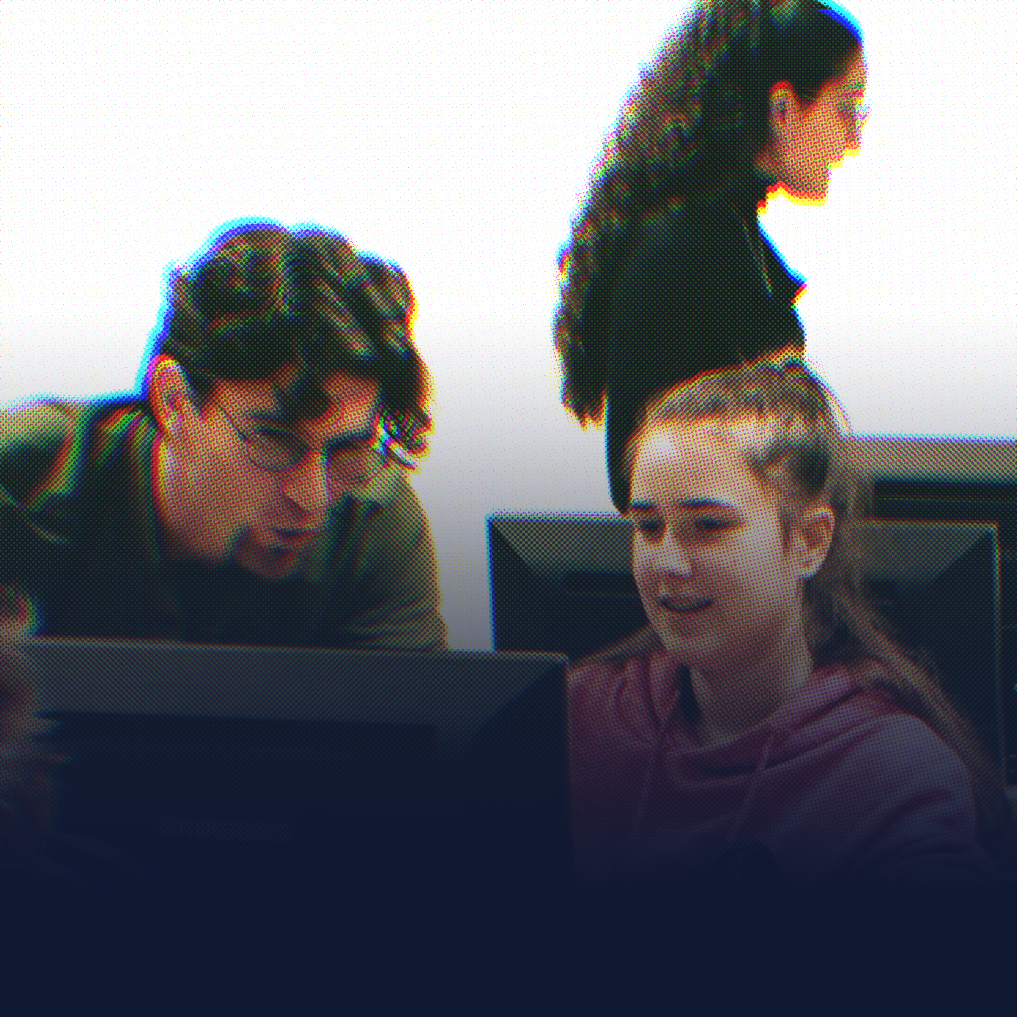
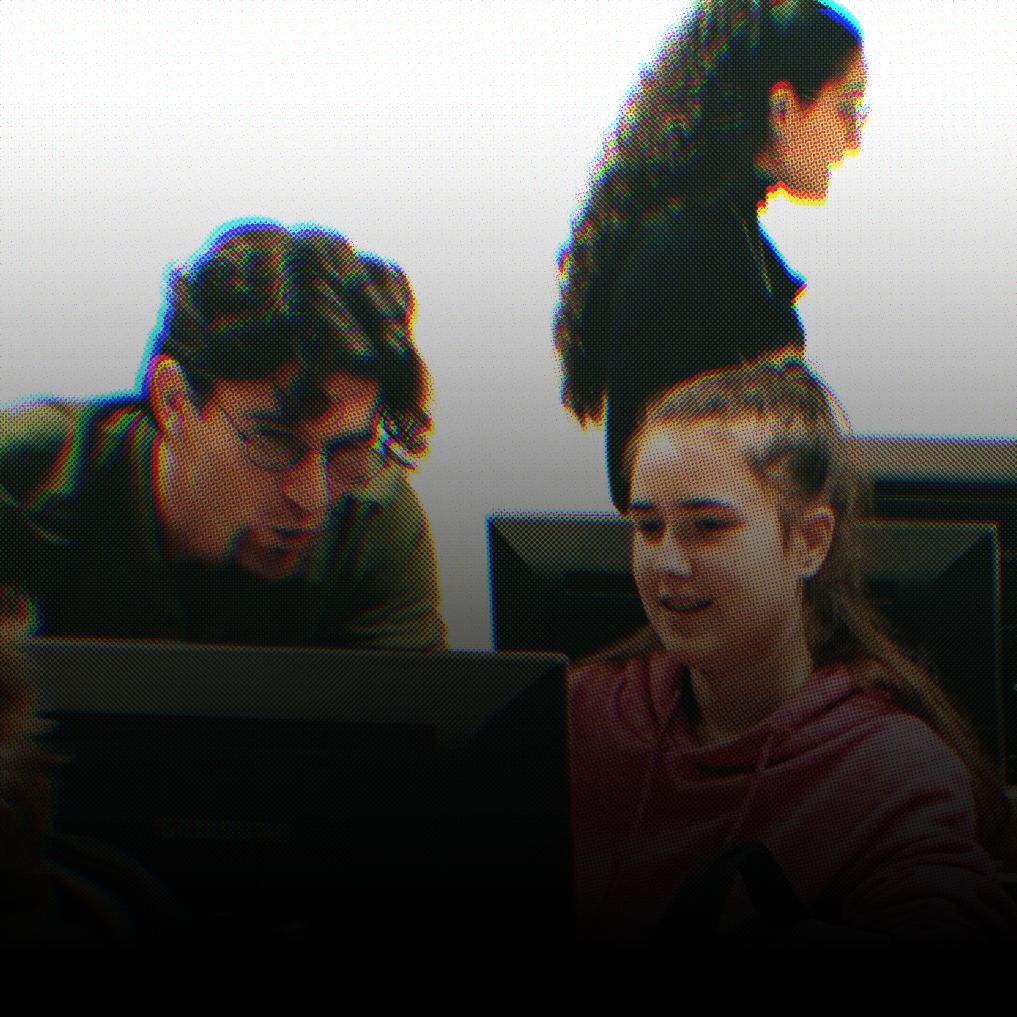
J'ai remedier a la situation

diff --git a/css/accueil.scss b/css/accueil.scss
@@ -205,7 +205,7 @@ nav{
         }
 
         #caroussel {
-            height: 750px;
+            height: 700px;
             #caroussel-images {
                 height: 100%;
                 ul {

diff --git a/css/accueil.css b/css/accueil.css
@@ -204,7 +204,7 @@ nav {
     color: #2CD9FF;
   }
   #header #caroussel {
-    height: 750px;
+    height: 700px;
   }
   #header #caroussel #caroussel-images {
     height: 100%;
